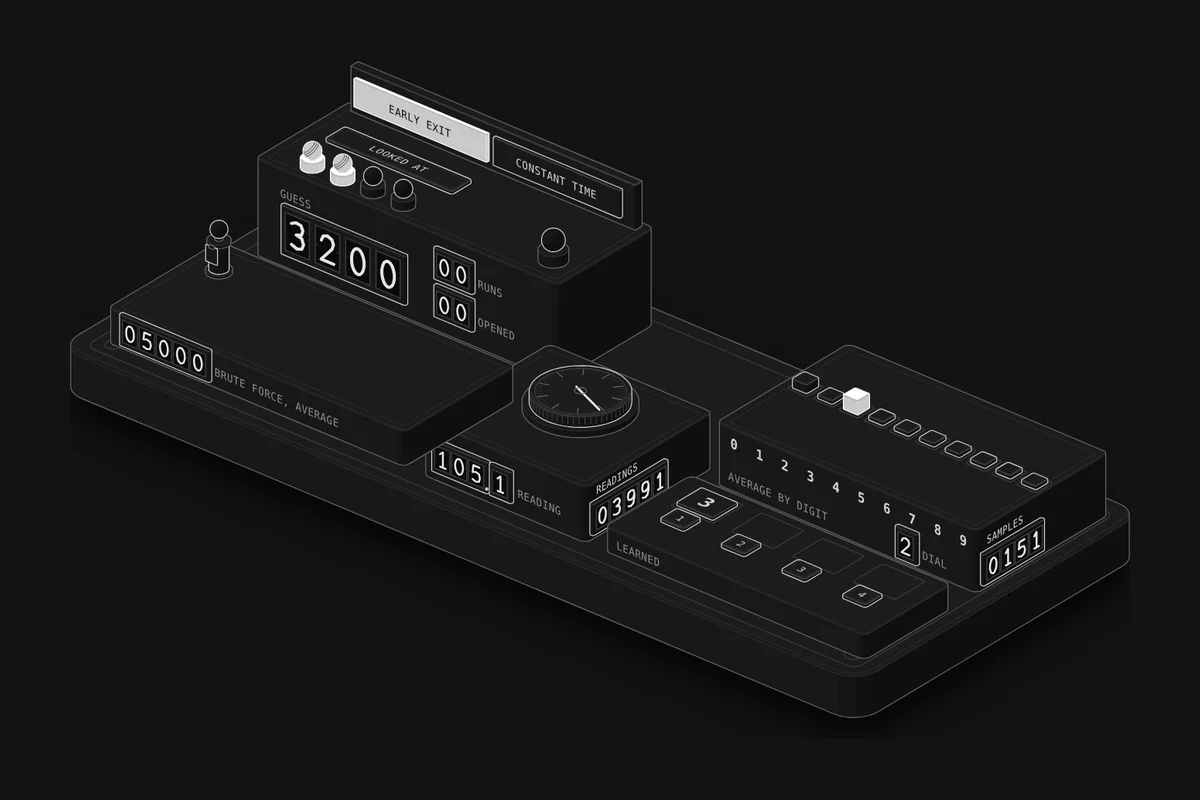
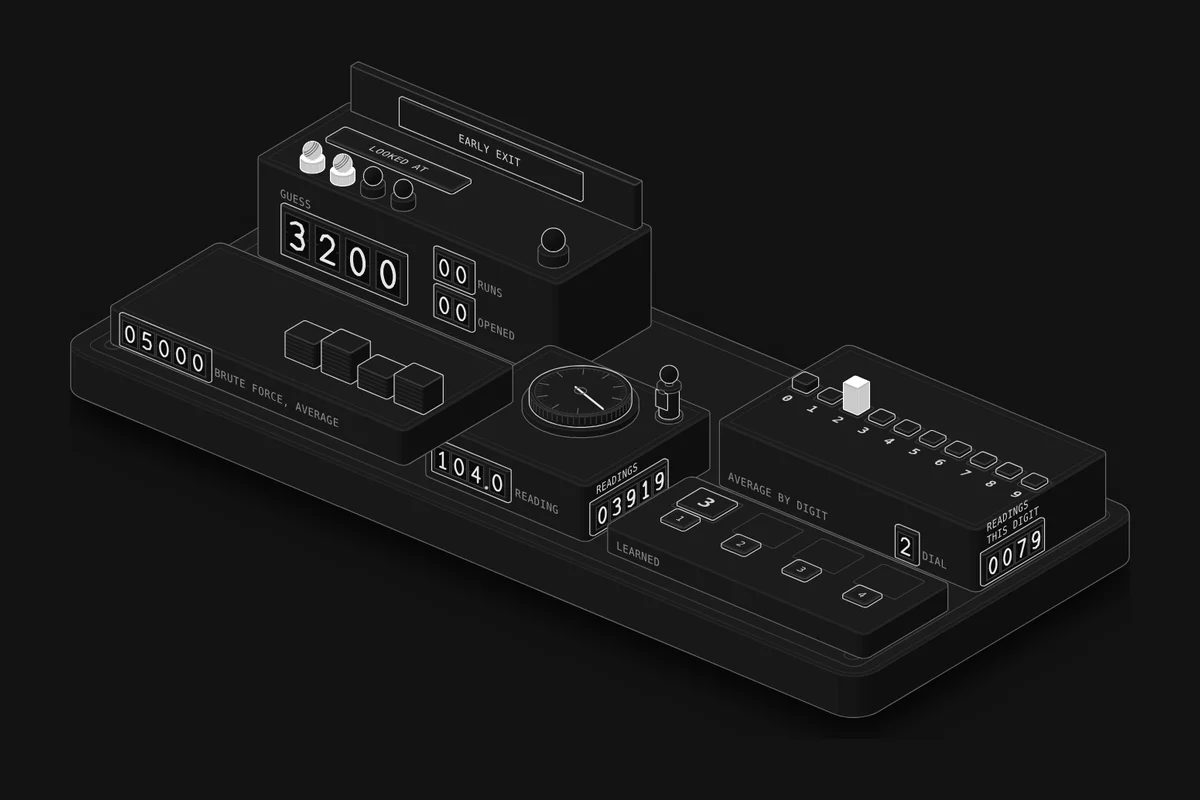
Lesson 81: fix review findings (bar labels on top, noise Watch at 1,280, FOUND in the length probe, listener at the stopwatch, reading counter, shorter caption)
Claude-Session: https://claude.ai/code/session_01S5z2gCvevbrGU3fXgpGDmP

diff --git a/src/lessons/timing/page.ts b/src/lessons/timing/page.ts
@@ -15,7 +15,7 @@ const top = (...xs) => Math.max(...xs) * 1.08 || 1;
 const ONE_IN = int(1 / CHANCE);
 // A constant-time result as a count of runs, so one lucky run reads as luck, not as a leak.
 const ofRuns = (rate) => int(rate * RUN_COUNT) + " of " + RUN_COUNT + " runs";
-const deRondas = (rate) => int(rate * RUN_COUNT) + " de " + RUN_COUNT + " rondas abiertas";
+const deEjecuciones = (rate) => int(rate * RUN_COUNT) + " de " + RUN_COUNT + " ejecuciones abiertas";
 const slash = (rate) => int(rate * RUN_COUNT) + "/" + RUN_COUNT;
 const S0 = DEFAULTS.samples;
 const rowOf = (noise, samples) => R.noise.find((g) => g.noise === noise).rows.find((r) => r.samples === samples).rate;
@@ -26,7 +26,7 @@ const RUNS = {
     const lg = (x) => Math.log10(x) / m;
     return {
       verdict: t("4 dials: brute force needs " + int(four.brute) + " tries on average, the listener took " + int(four.listen) + " readings and opened " + pct(four.rate) + " of runs. 8 dials: " + int(eight.brute) + " tries against " + int(eight.listen) + " readings, " + pct(eight.rate) + " opened.",
-        "4 diales: la fuerza bruta necesita " + int(four.brute) + " intentos en promedio; quien escucha tomó " + int(four.listen) + " lecturas y abrió el " + pct(four.rate) + " de las rondas. 8 diales: " + int(eight.brute) + " intentos contra " + int(eight.listen) + " lecturas, " + pct(eight.rate) + " abiertas."),
+        "4 diales: la fuerza bruta necesita " + int(four.brute) + " intentos en promedio; quien escucha tomó " + int(four.listen) + " lecturas y abrió el " + pct(four.rate) + " de las ejecuciones. 8 diales: " + int(eight.brute) + " intentos contra " + int(eight.listen) + " lecturas, " + pct(eight.rate) + " abiertas."),
       groups: [
         { title: t("4 dials (bars on a log scale)", "4 diales (barras en escala logarítmica)"), bars: [[t("Brute force, tries", "Fuerza bruta, intentos"), lg(four.brute), int(four.brute)], [t("Listener, readings", "Quien escucha, lecturas"), lg(four.listen), int(four.listen)]] },
         { title: t("8 dials (bars on a log scale)", "8 diales (barras en escala logarítmica)"), bars: [[t("Brute force, tries", "Fuerza bruta, intentos"), lg(eight.brute), int(eight.brute)], [t("Listener, readings", "Quien escucha, lecturas"), lg(eight.listen), int(eight.listen), true]] },
@@ -35,7 +35,7 @@ const RUNS = {
   },
   noise: () => ({
     verdict: t("Runs opened, by readings per digit: " + R.noise.map((g) => "noise " + g.noise + ": " + g.rows.map((r) => int(r.samples) + " → " + pct(r.rate)).join(", ")).join("; ") + ".",
-      "Rondas abiertas, por lecturas por dígito: " + R.noise.map((g) => "ruido " + g.noise + ": " + g.rows.map((r) => int(r.samples) + " → " + pct(r.rate)).join(", ")).join("; ") + "."),
+      "Ejecuciones abiertas, por lecturas por dígito: " + R.noise.map((g) => "ruido " + g.noise + ": " + g.rows.map((r) => int(r.samples) + " → " + pct(r.rate)).join(", ")).join("; ") + "."),
     groups: R.noise.map((g) => ({
       title: t("Noise " + g.noise + " (one dial = " + STEP + ")", "Ruido " + g.noise + " (un dial = " + STEP + ")"),
       bars: g.rows.map((r) => [t(int(r.samples) + " readings per digit", int(r.samples) + " lecturas por dígito"), r.rate, pct(r.rate), g.noise === 8 && r.samples === 1280]),
@@ -45,7 +45,7 @@ const RUNS = {
     const { early, cons, samples } = R.cons;
     return {
       verdict: t("With " + int(samples) + " readings per digit: early exit opened " + pct(early) + " of runs, constant time " + ofRuns(cons) + ". Blind luck opens 1 run in " + ONE_IN + ".",
-        "Con " + int(samples) + " lecturas por dígito: la salida temprana abrió el " + pct(early) + " de las rondas; con tiempo constante, " + deRondas(cons) + ". La suerte a ciegas abre 1 ronda de cada " + ONE_IN + "."),
+        "Con " + int(samples) + " lecturas por dígito: la salida temprana abrió el " + pct(early) + " de las ejecuciones; con tiempo constante, " + deEjecuciones(cons) + ". La suerte a ciegas abre 1 ejecución de cada " + ONE_IN + "."),
       bars: [[t("Early exit", "Salida temprana"), early, pct(early)], [t("Constant time", "Tiempo constante"), cons, slash(cons), true]],
     };
   },
@@ -53,7 +53,7 @@ const RUNS = {
     const { none, delayFew, delayMany, cons } = R.delay;
     return {
       verdict: t("Early exit with no delay, " + int(S0) + " readings per digit: " + pct(none) + " opened. With the 0–" + DELAY + " delay: " + pct(delayFew) + " at " + int(S0) + ", " + pct(delayMany) + " at " + int(MANY) + ". Constant time, no delay, " + int(MANY) + " readings: " + ofRuns(cons) + ", the luck of blind picks (1 in " + ONE_IN + ").",
-        "Salida temprana sin espera, " + int(S0) + " lecturas por dígito: " + pct(none) + " abiertas. Con la espera de 0–" + DELAY + ": " + pct(delayFew) + " con " + int(S0) + " y " + pct(delayMany) + " con " + int(MANY) + ". Tiempo constante, sin espera, " + int(MANY) + " lecturas: " + deRondas(cons) + ", la suerte de elegir a ciegas (1 de cada " + ONE_IN + ")."),
+        "Salida temprana sin espera, " + int(S0) + " lecturas por dígito: " + pct(none) + " abiertas. Con la espera de 0–" + DELAY + ": " + pct(delayFew) + " con " + int(S0) + " y " + pct(delayMany) + " con " + int(MANY) + ". Tiempo constante, sin espera, " + int(MANY) + " lecturas: " + deEjecuciones(cons) + ", la suerte de elegir a ciegas (1 de cada " + ONE_IN + ")."),
       bars: [[t("No delay, " + int(S0), "Sin espera, " + int(S0)), none, pct(none)], [t("Delay, " + int(S0), "Espera, " + int(S0)), delayFew, pct(delayFew)], [t("Delay, " + int(MANY), "Espera, " + int(MANY)), delayMany, pct(delayMany), true], [t("Constant time, " + int(MANY), "Tiempo constante, " + int(MANY)), cons, slash(cons)]],
     };
   },
@@ -61,7 +61,7 @@ const RUNS = {
     const { raw, fixed, chance, samples } = R.length;
     return {
       verdict: t("With " + samples + " readings per length, the listener found the secret's length in " + pct(raw) + " of runs comparing raw inputs, and in " + pct(fixed) + " comparing fixed-length digests, about the " + pct(chance) + " of a blind pick among " + LENGTHS.length + " lengths.",
-        "Con " + samples + " lecturas por longitud, quien escucha encontró la longitud del secreto en el " + pct(raw) + " de las rondas comparando las entradas tal cual, y en el " + pct(fixed) + " comparando resúmenes de longitud fija, cerca del " + pct(chance) + " de elegir a ciegas entre " + LENGTHS.length + " longitudes."),
+        "Con " + samples + " lecturas por longitud, quien escucha encontró la longitud del secreto en el " + pct(raw) + " de las ejecuciones comparando las entradas tal cual, y en el " + pct(fixed) + " comparando resúmenes de longitud fija, cerca del " + pct(chance) + " de elegir a ciegas entre " + LENGTHS.length + " longitudes."),
       bars: [[t("Raw inputs", "Entradas tal cual"), raw, pct(raw), true], [t("Fixed-length digests", "Resúmenes de longitud fija"), fixed, pct(fixed)], [t("Blind pick", "Elegir a ciegas"), chance, pct(chance)]],
     };
   },
@@ -86,7 +86,7 @@ const EXPERIMENTS = [
       "An early-exit comparison stops at the first wrong dial, so a guess whose first dials are right takes one step longer. That answers one dial at a time: the listener times each of ten digits, keeps the slowest, and moves on. Its work adds up per dial, " + int(B.four.listen) + " readings at 4 dials and " + int(B.eight.listen) + " at 8, while brute force multiplies by ten per dial: " + int(B.four.brute) + " tries on average at 4, " + int(B.eight.brute) + " at 8. At 4 dials, guessing blind is actually cheaper; at 8, listening is thousands of times cheaper. The leak turns about 10ⁿ work into about n × 10 × samples, so it matters more as secrets get longer, not less. (The last dial leaves no trace, since right or wrong the checker looks at all of them, so it is tried by hand: ten tries.)",
       "Una comparación con salida temprana se detiene en el primer dial equivocado, así que un intento cuyos primeros diales están bien tarda un paso más. Eso responde un dial a la vez: quien escucha mide cada uno de los diez dígitos, se queda con el más lento y sigue. Su trabajo se suma por dial, " + int(B.four.listen) + " lecturas con 4 diales y " + int(B.eight.listen) + " con 8, mientras la fuerza bruta se multiplica por diez por dial: " + int(B.four.brute) + " intentos en promedio con 4, " + int(B.eight.brute) + " con 8. Con 4 diales, adivinar a ciegas en realidad sale más barato; con 8, escuchar es miles de veces más barato. La fuga convierte un trabajo de unos 10ⁿ en unos n × 10 × muestras, así que importa más cuanto más largo es el secreto, no menos. (El último dial no deja rastro, porque bien o mal el verificador los revisa todos, así que se prueba a mano: diez intentos.)",
     ),
-    watch: { compare: "early", noise: 4, samples: 320, delay: 0, probe: "dials", input: "raw" },
+    watch: { compare: "early", noise: 4, samples: 320, delay: 0, probe: "dials", input: "raw", speed: 64, warm: 2600 },
   },
   {
     id: "noise",
@@ -104,7 +104,7 @@ const EXPERIMENTS = [
       "The average of n readings has a spread of noise ÷ √n, so to see the same one-unit difference with twice the noise you need four times the readings: noise 2 with 80 readings opened " + pct(rowOf(2, 80)) + ", noise 4 with 320 " + pct(rowOf(4, 320)) + ", noise 8 with 1,280 " + pct(rowOf(8, 1280)) + ". Even noise eight times the signal gives way. That is what people get wrong about network jitter: it doesn't hide a small difference, it only raises the number of samples, and samples are cheap to someone who can send requests. It is the same averaging lesson 44, Percentiles, uses on latency, turned around.",
       "El promedio de n lecturas tiene una dispersión de ruido ÷ √n, así que para ver la misma diferencia de una unidad con el doble de ruido hacen falta cuatro veces más lecturas: ruido 2 con 80 lecturas abrió el " + pct(rowOf(2, 80)) + ", ruido 4 con 320 el " + pct(rowOf(4, 320)) + " y ruido 8 con 1,280 el " + pct(rowOf(8, 1280)) + ". Incluso un ruido ocho veces mayor que la señal termina cediendo. En eso se equivoca la gente con la variación aleatoria (jitter) de la red: no esconde una diferencia pequeña, solo sube la cantidad de muestras, y las muestras son baratas para quien puede enviar solicitudes. Es el mismo promedio que usa la lección 44, Percentiles, con la latencia, visto al revés.",
     ),
-    watch: { compare: "early", noise: 8, samples: 320, delay: 0, probe: "dials", input: "raw" },
+    watch: { compare: "early", noise: 8, samples: 1280, delay: 0, probe: "dials", input: "raw", speed: 64, warm: 9600 },
   },
   {
     id: "cons",
@@ -120,9 +120,9 @@ const EXPERIMENTS = [
     answer: 2,
     why: t(
       "Now every guess costs the same: the time no longer depends on how many dials match. Averaging can only find a difference that exists, so the bars settle level and each pick is a blind guess: " + ofRuns(C.cons) + " opened, against " + pct(C.early) + " with early exit (blind luck is 1 run in " + ONE_IN + " here). In code, compare secrets with the library's constant-time function: crypto.timingSafeEqual in Node.js, hmac.compare_digest in Python, subtle.ConstantTimeCompare in Go. They look at every byte and combine the differences without branching on them. A plain == on strings or byte arrays usually returns at the first difference, and a hand-written loop can be turned back into an early exit by the compiler, so use the library.",
-      "Ahora cada intento cuesta lo mismo: el tiempo ya no depende de cuántos diales coinciden. Promediar solo encuentra una diferencia que existe, así que las barras quedan parejas y cada elección es a ciegas: " + deRondas(C.cons) + ", contra el " + pct(C.early) + " con salida temprana (la suerte a ciegas abre 1 ronda de cada " + ONE_IN + " aquí). En el código, compara secretos con la función de tiempo constante de la biblioteca: crypto.timingSafeEqual en Node.js, hmac.compare_digest en Python, subtle.ConstantTimeCompare en Go. Revisan cada byte y combinan las diferencias sin ramificar según ellas. Un == común sobre cadenas o arreglos de bytes suele volver en la primera diferencia, y un bucle escrito a mano puede volver a convertirse en salida temprana por obra del compilador, así que usa la biblioteca.",
+      "Ahora cada intento cuesta lo mismo: el tiempo ya no depende de cuántos diales coinciden. Promediar solo encuentra una diferencia que existe, así que las barras quedan parejas y cada elección es a ciegas: " + deEjecuciones(C.cons) + ", contra el " + pct(C.early) + " con salida temprana (la suerte a ciegas abre 1 ejecución de cada " + ONE_IN + " aquí). En el código, compara secretos con la función de tiempo constante de la biblioteca: crypto.timingSafeEqual en Node.js, hmac.compare_digest en Python, subtle.ConstantTimeCompare en Go. Revisan cada byte y combinan las diferencias sin ramificar según ellas. Un == común sobre cadenas o arreglos de bytes suele volver en la primera diferencia, y un bucle escrito a mano puede volver a convertirse en salida temprana por obra del compilador, así que usa la biblioteca.",
     ),
-    watch: { compare: "const", noise: 4, samples: 320, delay: 0, probe: "dials", input: "raw" },
+    watch: { compare: "const", noise: 4, samples: 320, delay: 0, probe: "dials", input: "raw", speed: 64, warm: 2600 },
   },
   {
     id: "delay",
@@ -138,9 +138,9 @@ const EXPERIMENTS = [
     answer: 1,
     why: t(
       "A random delay is just more noise: every guess gets the same delay on average, so the difference between a right and a wrong digit survives in the means. It only raises the readings needed: " + pct(D.none) + " opened with no delay, " + pct(D.delayFew) + " with it at " + int(S0) + " readings, " + pct(D.delayMany) + " at " + int(MANY) + ". Meanwhile every honest request got slower. The fix is to remove the difference, not to blur it: with constant time, " + ofRuns(D.cons) + " opened at " + int(MANY) + " readings, the luck of blind picks. Limiting how many checks one client can make (lesson 05, Rate limiting) is a good second layer, because it caps the samples anyone gets.",
-      "Una espera al azar es solo más ruido: cada intento recibe la misma espera en promedio, así que la diferencia entre un dígito correcto y uno equivocado sobrevive en los promedios. Solo sube las lecturas necesarias: se abrió el " + pct(D.none) + " sin espera, el " + pct(D.delayFew) + " con ella y " + int(S0) + " lecturas, y el " + pct(D.delayMany) + " con " + int(MANY) + ". Mientras tanto, cada solicitud legítima se volvió más lenta. La solución es quitar la diferencia, no difuminarla: con tiempo constante, " + deRondas(D.cons) + " con " + int(MANY) + " lecturas, la suerte de elegir a ciegas. Limitar cuántas comprobaciones puede hacer un cliente (lección 05, Limitación de tasa) es una buena segunda capa, porque pone un tope a las muestras que alguien consigue.",
+      "Una espera al azar es solo más ruido: cada intento recibe la misma espera en promedio, así que la diferencia entre un dígito correcto y uno equivocado sobrevive en los promedios. Solo sube las lecturas necesarias: se abrió el " + pct(D.none) + " sin espera, el " + pct(D.delayFew) + " con ella y " + int(S0) + " lecturas, y el " + pct(D.delayMany) + " con " + int(MANY) + ". Mientras tanto, cada solicitud legítima se volvió más lenta. La solución es quitar la diferencia, no difuminarla: con tiempo constante, " + deEjecuciones(D.cons) + " con " + int(MANY) + " lecturas, la suerte de elegir a ciegas. Limitar cuántas comprobaciones puede hacer un cliente (lección 05, Limitación de tasa) es una buena segunda capa, porque pone un tope a las muestras que alguien consigue.",
     ),
-    watch: { compare: "early", noise: 4, samples: 2560, delay: 40, probe: "dials", input: "raw", speed: 64 },
+    watch: { compare: "early", noise: 4, samples: 2560, delay: 40, probe: "dials", input: "raw", speed: 64, warm: 21000 },
   },
   {
     id: "length",
@@ -156,7 +156,7 @@ const EXPERIMENTS = [
     answer: 1,
     why: t(
       "Constant-time functions are constant time only for inputs of the same length. A guess of the wrong length is turned away before any dial is compared, so it comes back sooner, and the right length stands out: found in " + pct(N.raw) + " of runs. The library functions handle this differently: Node.js's timingSafeEqual throws when the lengths differ, Go's ConstantTimeCompare returns 0 at once, and Python's documentation says compare_digest may reveal the lengths, though not the contents. Comparing an HMAC of each side (or a hash, for a token you store) makes both inputs the same fixed length, and the digest's bytes no longer follow the guess's: " + pct(N.fixed) + ", about the " + pct(N.chance) + " of a blind pick.",
-      "Las funciones de tiempo constante lo son solo para entradas de la misma longitud. Un intento de longitud equivocada se rechaza antes de comparar ningún dial, así que vuelve antes, y la longitud correcta resalta: se encontró en el " + pct(N.raw) + " de las rondas. Las funciones de biblioteca lo manejan distinto: timingSafeEqual de Node.js lanza un error si las longitudes difieren, ConstantTimeCompare de Go devuelve 0 de inmediato, y la documentación de Python dice que compare_digest puede revelar las longitudes, aunque no el contenido. Comparar un HMAC de cada lado (o un hash, para un token que guardas) hace que las dos entradas tengan la misma longitud fija, y los bytes del resumen ya no siguen a los del intento: " + pct(N.fixed) + ", cerca del " + pct(N.chance) + " de elegir a ciegas.",
+      "Las funciones de tiempo constante lo son solo para entradas de la misma longitud. Un intento de longitud equivocada se rechaza antes de comparar ningún dial, así que vuelve antes, y la longitud correcta resalta: se encontró en el " + pct(N.raw) + " de las ejecuciones. Las funciones de biblioteca lo manejan distinto: timingSafeEqual de Node.js lanza un error si las longitudes difieren, ConstantTimeCompare de Go devuelve 0 de inmediato, y la documentación de Python dice que compare_digest puede revelar las longitudes, aunque no el contenido. Comparar un HMAC de cada lado (o un hash, para un token que guardas) hace que las dos entradas tengan la misma longitud fija, y los bytes del resumen ya no siguen a los del intento: " + pct(N.fixed) + ", cerca del " + pct(N.chance) + " de elegir a ciegas.",
     ),
     watch: { compare: "const", noise: 4, samples: 20, delay: 0, probe: "length", input: "raw" },
   },
@@ -194,13 +194,13 @@ export default defineLesson({
     plate: {
       title: t("Combination checker", "Verificador de combinaciones"),
       keys: [
-        { mark: "lit", label: t("The comparison in use; the dials the latest check looked at; the column being timed; the open lamp", "La comparación en uso; los diales que revisó la última comprobación; la columna que se está midiendo; la lámpara de abierta") },
+        { mark: "lit", label: t("The check in play: the dials the latest check looked at, the column being timed, and the lamp when the lock opens", "La comprobación en juego: los diales que revisó la última comprobación, la columna que se está midiendo y la lámpara cuando la cerradura abre") },
         { mark: "raised", label: t("Bars: the average reading per digit so far; cards: the dials the listener has settled on", "Barras: la lectura promedio de cada dígito hasta ahora; tarjetas: los diales que ya fijó quien escucha") },
         { mark: "flat", label: t("The checker, the stopwatch and the tally board", "El verificador, el cronómetro y el tablero de conteo") },
       ],
       caption: t(
-        "A check costs about " + BASE + " units plus " + STEP + " for each dial it looks at; every reading adds noise. The units are illustrative and round: one dial stands for the few nanoseconds one more byte of comparison takes, the noise for jitter many times larger. Early exit looks at dials until the first wrong one; constant time always looks at all four. For each dial, the listener times every digit (the rest of the guess is padding), keeps the slowest average and moves on; the last dial leaves no timing trace, so it is tried by hand until the checker opens. Bars rise one step for one unit above a wrong guess's cost. In the length probe, the bars are guess lengths 2 to 7 instead. Counters: the guess, runs and how many opened (OPENED), the last reading and how many were taken (READINGS), the dial being learned and the samples of the current digit, and the tries brute force needs on average.",
-        "Una comprobación cuesta unas " + BASE + " unidades más " + STEP + " por cada dial que revisa; cada lectura suma ruido. Las unidades son ilustrativas y redondas: un dial representa los pocos nanosegundos que tarda comparar un byte más, y el ruido una variación muchas veces mayor. La salida temprana revisa diales hasta el primero equivocado; el tiempo constante siempre revisa los cuatro. Para cada dial, quien escucha mide todos los dígitos (el resto del intento es relleno), se queda con el promedio más lento y sigue; el último dial no deja rastro de tiempo, así que se prueba a mano hasta que el verificador abre. Las barras suben un escalón por cada unidad sobre el costo de un intento equivocado. En la prueba de longitud, las barras son longitudes de intento de 2 a 7. Contadores: el intento, las rondas y cuántas abrieron (ABIERTAS), la última lectura y cuántas se tomaron (LECTURAS), el dial que se está aprendiendo y las muestras del dígito actual, y los intentos que la fuerza bruta necesita en promedio.",
+        "A check costs about " + BASE + " units plus " + STEP + " for each dial it looks at, and every reading adds noise; one dial stands for the few nanoseconds one more byte takes. Early exit looks at dials until the first wrong one; constant time always looks at all four. For each dial the listener times every digit, keeps the slowest average and lays its card on the rail; the last dial leaves no timing trace, so it is tried by hand. A bar rises one step for each unit above a wrong guess's cost; in the length probe the bars are guess lengths 2 to 7. Counters: RUNS and how many OPENED (FOUND the length), the last READING and READINGS taken, the DIAL being learned with the readings of the column being timed, and the tries brute force needs on average.",
+        "Una comprobación cuesta unas " + BASE + " unidades más " + STEP + " por cada dial que revisa, y cada lectura suma ruido; un dial representa los pocos nanosegundos que tarda un byte más. La salida temprana revisa diales hasta el primero equivocado; el tiempo constante siempre revisa los cuatro. Para cada dial, quien escucha mide todos los dígitos, se queda con el promedio más lento y pone su tarjeta en el riel; el último dial no deja rastro de tiempo, así que se prueba a mano. Una barra sube un escalón por cada unidad sobre el costo de un intento equivocado; en la prueba de longitud las barras son longitudes de intento de 2 a 7. Contadores: EJECUCIONES y cuántas quedaron ABIERTAS (HALLADAS, la longitud), la última LECTURA y las LECTURAS tomadas, el DIAL que se aprende con las lecturas de la columna que se mide, y los intentos promedio de la fuerza bruta.",
       ),
       stage: { "data-timing": "" },
       label: t("Timing attack simulation. Space pauses or resumes.", "Simulación de un ataque de tiempo. Espacio pausa o reanuda."),
@@ -223,8 +223,8 @@ export default defineLesson({
       { speed: true, options: [[1, "1×"], [4, "4×"], [16, "16×"], [64, "64×"]], value: 16 },
       { actions: [["secret", t("New secret", "Nuevo secreto"), { primary: true }], ["reset", t("Start over", "Empezar de nuevo")], ["pause", t("Pause", "Pausa")]], label: t("Do something", "Haz algo") },
     ],
-    note: t("Changing a setting starts a new run with a new secret. At 1× the stopwatch takes 30 readings a second. A run ends when the lock opens or the last dial runs out of digits, and the next one starts on its own.",
-      "Cambiar un ajuste empieza una ronda nueva con un secreto nuevo. A 1× el cronómetro toma 30 lecturas por segundo. Una ronda termina cuando la cerradura abre o el último dial se queda sin dígitos, y la siguiente empieza sola."),
+    note: t("Changing a setting starts a new run with a new secret. At 1× the stopwatch takes 30 readings a second. A run ends when the lock opens or the last dial runs out of digits, and the next one starts on its own. Watch it in the figure takes the first readings of dial 1 at once and speeds up.",
+      "Cambiar un ajuste empieza una ejecución nueva con un secreto nuevo. A 1× el cronómetro toma 30 lecturas por segundo. Una ejecución termina cuando la cerradura abre o el último dial se queda sin dígitos, y la siguiente empieza sola. Míralo en la figura toma de una vez las primeras lecturas del dial 1 y acelera."),
   },
   predict: { intro: t("Each experiment changes one thing. Choose what you expect <em>before</em> running it. Results come from the same checker as the machine, averaged over 200 seeded runs, each with its own secret.",
     "Cada experimento cambia una sola cosa. Elige lo que esperas <em>antes</em> de ejecutarlo. Los resultados salen del mismo verificador que la máquina, promediados sobre 200 ejecuciones con semilla fija, cada una con su propio secreto."), experiments: withResults(EXPERIMENTS, RUNS) },

diff --git a/src/lessons/timing/figure.ts b/src/lessons/timing/figure.ts
@@ -1,14 +1,16 @@
 // @ts-nocheck: figure code in the style of the other lessons; drawing shorthands come from src/lib/draw.
 // A combination checker and a stopwatch booth: the lesson's model of a timing leak and its fix.
 //   Back left: the CHECKER, a cabinet with the guess on four digit wheels. Its comparison either stops at the first
-//         wrong dial (EARLY EXIT) or always looks at all four (CONSTANT TIME); the lit plate is the one in use, and a
-//         lamp over each wheel lights for every dial the latest check looked at. Counters: RUNS and OPENED.
-//   Centre: the STOPWATCH on a pedestal: its needle sweeps for each reading; READING shows the last one (one decimal)
-//         and READINGS how many have been taken.
-//   Back right: the TALLY board: one bar per digit (or per guessed length), the mean reading so far; the column being
-//         timed is lit. DIAL on its front face, SAMPLES on its right face.
-//   Front: the brute-force desk (how many tries guessing blind would take on average) and the LEARNED rail, with a
-//         card for each dial the listener has settled on.
+//         wrong dial (EARLY EXIT) or always looks at all four (CONSTANT TIME): the plate on top names the one in use,
+//         and a lamp over each wheel lights for every dial the latest check looked at. Counters: RUNS and OPENED
+//         (FOUND in the length probe).
+//   Centre: the STOPWATCH on a pedestal, the listener standing beside it: its needle sweeps for each reading;
+//         READING shows the last one (one decimal) and READINGS how many have been taken.
+//   Back right: the TALLY board: one bar per digit (or per guessed length), the mean reading so far, its digit on the
+//         top in front of it; the column being timed is lit. DIAL on its front face, the readings of the column being
+//         timed on its right face.
+//   Front: the brute-force desk (how many tries guessing blind would take on average, with a pile of guess slips)
+//         and the LEARNED rail, with a card for each dial the listener has settled on.
 // Nothing moves across a counter or a caption: the bars rise behind the tally board's front face, the needle turns on
 // top of the stopwatch, lamps and cards stay in place. Built with the Anatomy kit (MIT) and the shared parts.
 import * as k from "../../../workbench/kit.mjs";
@@ -39,7 +41,7 @@ const WHEEL = { x0: -114, w: 8, h: 11, gap: 2, z: 5 };
 export const WHEEL_CX = Array.from({ length: DIALS }, (_, i) => WHEEL.x0 + i * (WHEEL.w + WHEEL.gap) + WHEEL.w / 2);
 const PANEL = { x: CK.x + 3, y: CK.y + 1, w: CK.w - 6, d: 3, r: 0.4 };
 const PANEL_H = 13;
-const MODE = { early: { x: PANEL.x + 2, w: 44 }, const: { x: PANEL.x + 48, w: 42 } };
+const MODE = { x: PANEL.x + 17, w: PANEL.w - 34 };
 
 // ---------- the stopwatch ----------
 const PED = { x: -20, y: -32, w: 54, d: 50, r: 2 };
@@ -86,21 +88,19 @@ function checker() {
   // runs and opened, on the front to the right of the guess
   const cx = -64;
   out.push(counter({ x: cx, y: CK_FRONT, z: 16, count: 2, name: "runs" }));
-  out.push(text(cx + 2 * CW + 2.4, CK_FRONT, 17.6, t("RUNS", "RONDAS")));
+  out.push(text(cx + 2 * CW + 2.4, CK_FRONT, 17.6, t("RUNS", "EJECUCIONES")));
   out.push(counter({ x: cx, y: CK_FRONT, z: 5, count: 2, name: "opened" }));
-  out.push(text(cx + 2 * CW + 2.4, CK_FRONT, 6.6, t("OPENED", "ABIERTAS")));
+  out.push(`<g data-opencap="dials">${text(cx + 2 * CW + 2.4, CK_FRONT, 6.6, t("OPENED", "ABIERTAS"))}</g>`);
+  out.push(`<g data-opencap="length" style="display:none">${text(cx + 2 * CW + 2.4, CK_FRONT, 6.6, t("FOUND", "HALLADAS"))}</g>`);
   // a lamp over each wheel, lit for every dial the latest check looked at
   out.push(plaque(P, { x: WHEEL_CX[0] - 6, y: CK_FRONT - 26, z: CK_H, w: WHEEL_CX[DIALS - 1] - WHEEL_CX[0] + 12, d: 8, text: t("LOOKED AT", "REVISADOS"), size: LABEL }));
   WHEEL_CX.forEach((x, i) => out.push(`<g data-look="${i}">${lamp(P, [x, CK_FRONT - 6, CK_H], { r: 2.4 })}</g>`));
-  // the mode plates on a panel at the back of the top
+  // the plate on a panel at the back of the top: the comparison in use, by name
   out.push(S(k.slabOf(PANEL, CK_H, PANEL_H, P, 2, 0.3), { tone: "mid", crease: "lo" }));
   const face = PANEL.y + PANEL.d;
-  const plateOf = (name, words) => {
-    const m = MODE[name], plan = { x: m.x, y: face, w: m.w, d: 1.2, r: 0.3 };
-    return `<g class="wb-lit-group" data-mode="${name}">${S(k.slabOf(plan, CK_H + 2.5, 8, P, 2, 0.2), { tone: "hi", crease: "lo" })}`
-      + faceText(P, [m.x + m.w / 2, face + 1.2, CK_H + 5.2], words, { size: LABEL, tone: "hi", anchor: "middle" }) + `</g>`;
-  };
-  out.push(plateOf("early", t("EARLY EXIT", "SALIDA TEMPRANA")), plateOf("const", t("CONSTANT TIME", "TIEMPO CONSTANTE")));
+  out.push(S(k.slabOf({ x: MODE.x, y: face, w: MODE.w, d: 1.2, r: 0.3 }, CK_H + 2.5, 8, P, 2, 0.2), { tone: "hi", crease: "lo" }));
+  const modeText = (name, words, on) => `<g data-mode="${name}"${on ? "" : ' style="display:none"'}>${faceText(P, [MODE.x + MODE.w / 2, face + 1.2, CK_H + 5.2], words, { size: LABEL, tone: "hi", anchor: "middle" })}</g>`;
+  out.push(modeText("early", t("EARLY EXIT", "SALIDA TEMPRANA"), true), modeText("const", t("CONSTANT TIME", "TIEMPO CONSTANTE"), false));
   // the open lamp on the right of the top
   out.push(`<g data-open>${lamp(P, [CK.x + CK.w - 9, CK_FRONT - 9, CK_H], { r: 3 })}</g>`);
   return out.join("");
@@ -110,16 +110,19 @@ function stopwatch() {
   const out = [S(k.slabOf(PED, 0, PED_H, P, 3, 0.6), { tone: "mid" })];
   out.push(L(k.planOutline(k.insetPlan(PED, 2.4), PED_H, P), { tone: "faint" }));
   out.push(dial(P, { x: WATCH.x, y: WATCH.y, z: PED_H, r: WATCH.r, h: 5, ticks: 50, every: 5, name: "watch", value: 0 }));
-  // the last reading: three wheels, a decimal point, one wheel
-  const x0 = PED.x + 4;
-  out.push(counter({ x: x0, y: PED_FRONT, z: 3.4, count: 3, name: "readI" }));
-  out.push(k.dotsSvg([k.iso([x0 + 3 * CW + 0.6, PED_FRONT + 0.2, 3.8], P)], { size: 1.1, tone: "hi" }));
-  out.push(counter({ x: x0 + 3 * CW + 2.2, y: PED_FRONT, z: 3.4, count: 1, name: "readF" }));
-  out.push(text(x0 + 4 * CW + 5, PED_FRONT, 5, t("READING", "LECTURA")));
+  // the last reading: three wheels, a decimal point and one wheel, in one housing
+  const x0 = PED.x + 4, z0 = 3.4, span3 = 3 * 5 + 2 * 0.6, tenthX = x0 + span3 + 2;
+  out.push(S(k.slabOf({ x: x0 - 1.2, y: PED_FRONT - 1.4, w: tenthX + 5 - x0 + 2.4, d: 1.4, r: 0.5 }, z0 - 1.2, 6.6 + 2.4, P, 2), { tone: "hi", crease: "lo" }));
+  out.push(counter({ x: x0, y: PED_FRONT, z: z0, count: 3, housing: false, name: "readI" }));
+  out.push(k.dotsSvg([k.iso([x0 + span3 + 1, PED_FRONT + 0.1, z0 + 0.6], P)], { size: 1.1, tone: "hi" }));
+  out.push(counter({ x: tenthX, y: PED_FRONT, z: z0, count: 1, housing: false, name: "readF" }));
+  out.push(text(tenthX + 5 + 3.4, PED_FRONT, 5, t("READING", "LECTURA")));
   // how many readings so far, on the right face
   const side = PED.x + PED.w;
   out.push(counter({ x: side, y: PED_FRONT - 4, z: 2, count: 5, face: "x", name: "readings" }));
   out.push(faceText(P, [side, PED_FRONT - 4, 12.4], t("READINGS", "LECTURAS"), { face: "x", size: LABEL, tone: "hi" }));
+  // the listener, with a clipboard, beside the stopwatch it reads
+  out.push(person(P, [PED.x + PED.w - 7, PED.y + 9, PED_H], { scale: 0.62, holding: "clipboard" }));
   return out.join("");
 }
 
@@ -133,17 +136,19 @@ function tally() {
   // the bars, far ones first
   const order = BAR_X.map((_, i) => i).sort((a, b) => k.depthOf([BAR_X[a], BAR.y, 0], P) - k.depthOf([BAR_X[b], BAR.y, 0], P));
   out.push(`<g data-bars>${order.map((i) => `<g class="wb-lit-group" data-bar="${i}">${S(barPaths(P, BAR_X[i], 4, k.slabOf), { tone: "hi", crease: "lo" })}</g>`).join("")}</g>`);
-  // column labels under each bar, and the caption, on the front face
-  BAR_X.forEach((x, i) => out.push(faceText(P, [x, TB_FRONT, 12.4], String(i), { size: 4, tone: "hi", anchor: "middle", attr: `data-col="${i}"` })));
+  // each column's label on the top, just in front of its bar; the caption on the front face
+  BAR_X.forEach((x, i) => out.push(faceText(P, [x, BAR.y + BAR.d / 2 + 6, TB_H], String(i), { face: "top", size: 4, tone: "hi", anchor: "middle", attr: `data-col="${i}"` })));
   out.push(`<g data-cap="dials">${text(TB.x + 4, TB_FRONT, 2.8, t("AVERAGE BY DIGIT", "PROMEDIO POR DÍGITO"))}</g>`);
   out.push(`<g data-cap="length" style="display:none">${text(TB.x + 4, TB_FRONT, 2.8, t("AVERAGE BY LENGTH", "PROMEDIO POR LONGITUD"))}</g>`);
   // dial and samples on the right face
   const side = TB.x + TB.w;
   const dx = TB.x + TB.w - 26;
-  out.push(counter({ x: dx, y: TB_FRONT, z: 1.8, count: 1, name: "dial" }));
-  out.push(text(dx + CW + 2.4, TB_FRONT, 3.4, t("DIAL", "DIAL")));
+  out.push(`<g data-dialbox>${counter({ x: dx, y: TB_FRONT, z: 1.8, count: 1, name: "dial" })}${text(dx + CW + 2.4, TB_FRONT, 3.4, t("DIAL", "DIAL"))}</g>`);
+  // the readings taken so far of the column being timed, out of the panel's "readings per digit"
   out.push(counter({ x: side, y: TB_FRONT - 4, z: 2, count: 4, face: "x", name: "samples" }));
-  out.push(faceText(P, [side, TB_FRONT - 4, 12.6], t("SAMPLES", "MUESTRAS"), { face: "x", size: LABEL, tone: "hi" }));
+  const sideCap = (z, words) => faceText(P, [side, TB_FRONT - 4, z], words, { face: "x", size: LABEL, tone: "hi" });
+  out.push(sideCap(16.2, t("READINGS", "LECTURAS")));
+  out.push(`<g data-samplecap="dials">${sideCap(12.4, t("THIS DIGIT", "ESTE DÍGITO"))}</g><g data-samplecap="length" style="display:none">${sideCap(12.4, t("THIS LENGTH", "ESTA LONGITUD"))}</g>`);
   return out.join("");
 }
 
@@ -152,8 +157,16 @@ function desk() {
   out.push(L(k.planOutline(k.insetPlan(DESK, 2.4), DESK_H, P), { tone: "faint" }));
   out.push(counter({ x: DESK.x + 5, y: DESK_FRONT, z: 1.8, count: 5, name: "brute", value: BRUTE / 2 }));
   out.push(text(DESK.x + 5 + 5 * CW + 2.4, DESK_FRONT, 3.4, t("BRUTE FORCE, AVERAGE", "FUERZA BRUTA, PROMEDIO")));
-  // the listener stands at the left end of the desk, clear of the checker's wheels
-  out.push(person(P, [DESK.x + 10, DESK.y + 12, DESK_H], { scale: 0.62, holding: "clipboard" }));
+  // the pile of guess slips that guessing blind works through: low stacks at the front right of the desk, clear of
+  // the checker's wheels behind it
+  const slip = { w: 10, d: 8 };
+  const stacks = [[DESK.x + 50, 7], [DESK.x + 62, 9], [DESK.x + 74, 6], [DESK.x + 86, 8]];
+  for (const [x, h] of stacks) {
+    const plan = { x, y: DESK.y + 26, w: slip.w, d: slip.d, r: 0.5 };
+    const lines = [];
+    for (let z = DESK_H + 1.2; z < DESK_H + h - 0.4; z += 1.2) lines.push(k.faceRectY(P, plan.x + 0.4, plan.x + plan.w - 0.4, plan.y + plan.d, z, z + 0.01));
+    out.push(S(k.slabOf(plan, DESK_H, h, P, 2, 0.3), { tone: "hi", crease: "lo", inner: L(lines.join(""), { tone: "faint" }) }));
+  }
   return out.join("");
 }
 
@@ -182,8 +195,8 @@ export function buildFigure() {
     width: WIDTH,
     height: HEIGHT,
     label: t(
-      "A combination checker and a stopwatch booth on a base plate. At the back left, the checker: a cabinet with the current guess on four digit wheels, a lamp over each wheel that lights for every dial the latest check looked at, and two plates, EARLY EXIT and CONSTANT TIME, of which the lit one is the comparison in use; counters show the runs and how many opened the lock. In the centre, a stopwatch on a pedestal times every check; counters show the last reading, with one decimal, and how many readings have been taken. At the back right, a tally board has one bar per digit, the average reading for that digit so far; the column being timed is lit, and counters show the dial being learned and the samples taken. At the front, a desk shows how many tries guessing blind would take on average, with the listener standing at it, and a rail holds a card for each dial the listener has settled on.",
-      "Un verificador de combinaciones y una cabina con cronómetro sobre una placa base. Atrás a la izquierda, el verificador: un gabinete con el intento actual en cuatro ruedas de dígitos, una lámpara sobre cada rueda que se enciende por cada dial que revisó la última comprobación, y dos placas, SALIDA TEMPRANA y TIEMPO CONSTANTE, de las que la encendida es la comparación en uso; unos contadores muestran las rondas y cuántas abrieron la cerradura. En el centro, un cronómetro sobre un pedestal mide cada comprobación; unos contadores muestran la última lectura, con un decimal, y cuántas lecturas se tomaron. Atrás a la derecha, un tablero de conteo tiene una barra por dígito, la lectura promedio de ese dígito hasta ahora; la columna que se está midiendo está encendida, y unos contadores muestran el dial que se está aprendiendo y las muestras tomadas. Adelante, un escritorio muestra cuántos intentos haría falta en promedio adivinando a ciegas, con quien escucha parado ahí, y un riel tiene una tarjeta por cada dial que ya fijó.",
+      "A combination checker and a stopwatch booth on a base plate. At the back left, the checker: a cabinet with the current guess on four digit wheels, a lamp over each wheel that lights for every dial the latest check looked at, and a plate on top naming the comparison in use, EARLY EXIT or CONSTANT TIME; counters on its front show the runs and how many opened the lock. In the centre, a stopwatch on a pedestal times every check, with the listener standing beside it holding a clipboard; counters show the last reading, with one decimal, and how many readings have been taken. At the back right, a tally board has one bar per digit, the average reading for that digit so far, with the digit on the top in front of its bar; the column being timed is lit, and counters show the dial being learned and the readings taken of the column being timed. At the front left, a desk with piles of guess slips shows how many tries guessing blind would take on average; at the front right, a rail holds a card for each dial the listener has settled on.",
+      "Un verificador de combinaciones y una cabina con cronómetro sobre una placa base. Atrás a la izquierda, el verificador: un gabinete con el intento actual en cuatro ruedas de dígitos, una lámpara sobre cada rueda que se enciende por cada dial que revisó la última comprobación, y una placa arriba con el nombre de la comparación en uso, SALIDA TEMPRANA o TIEMPO CONSTANTE; contadores en su frente muestran las ejecuciones y cuántas abrieron la cerradura. En el centro, un cronómetro sobre un pedestal mide cada comprobación, con quien escucha parado al lado con una tablilla; unos contadores muestran la última lectura, con un decimal, y cuántas lecturas se tomaron. Atrás a la derecha, un tablero de conteo tiene una barra por dígito, la lectura promedio de ese dígito hasta ahora, con el dígito arriba delante de su barra; la columna que se está midiendo está encendida, y unos contadores muestran el dial que se está aprendiendo y las lecturas tomadas de la columna que se mide. Adelante a la izquierda, un escritorio con pilas de papeletas de intentos muestra cuántos intentos haría falta en promedio adivinando a ciegas; adelante a la derecha, un riel tiene una tarjeta por cada dial que quien escucha ya fijó.",
     ),
     body: [plate(), cable(), checker(), tally(), stopwatch(), desk(), rail()],
   });

diff --git a/src/lessons/timing/live.ts b/src/lessons/timing/live.ts
@@ -22,11 +22,16 @@ export default function mount({ P, G, LENGTHS, DIALS, BASE, STEP }, root) {
   const bars = G.BAR_X.map((_, i) => q(`[data-bar="${i}"]`));
   const labels = G.BAR_X.map((_, i) => q(`[data-col="${i}"]`));
   const caps = { dials: q('[data-cap="dials"]'), length: q('[data-cap="length"]') };
+  const openCaps = { dials: q('[data-opencap="dials"]'), length: q('[data-opencap="length"]') };
+  const sampleCaps = { dials: q('[data-samplecap="dials"]'), length: q('[data-samplecap="length"]') };
+  const dialBox = q("[data-dialbox]");
+  const openLabel = root.$('wb-stat[key="opened"] span');
   const cards = G.CARD_X.map((_, i) => q(`[data-card="${i}"]`));
   const cardText = G.CARD_X.map((_, i) => q(`[data-card-text="${i}"]`));
   const RATE = 30;                                   // readings per second at 1×
 
   const cfg = { compare: "early", noise: 4, samples: 320, delay: 0, probe: "dials", input: "raw", speed: 16 };
+  // opened: runs that opened the lock (or, in the length probe, found the secret's length)
   let model, seed = 3, runs = 0, opened = 0, budget = 0, hold = 0, after = null, lastSay = 0;
   const shownH = [];
 
@@ -37,9 +42,13 @@ export default function mount({ P, G, LENGTHS, DIALS, BASE, STEP }, root) {
     budget = 0; hold = 0; after = null;
     const length = cfg.probe === "length";
     show(caps.dials, !length); show(caps.length, length);
+    show(openCaps.dials, !length); show(openCaps.length, length);
+    show(sampleCaps.dials, !length); show(sampleCaps.length, length);
+    show(dialBox, !length);
+    if (openLabel) openLabel.textContent = L(length ? T("Lengths found", "Longitudes halladas") : T("Opened", "Abiertas"));
     labels.forEach((el, i) => { const on = !length || i < LENGTHS.length; show(el, on); show(bars[i], on); setText(el, length ? (i < LENGTHS.length ? LENGTHS[i] : "") : i); });
     cards.forEach((c) => show(c, false));
-    setLit(modes.early, cfg.compare === "early"); setLit(modes.const, cfg.compare === "const");
+    show(modes.early, cfg.compare === "early"); show(modes.const, cfg.compare === "const");
     setLit(openLamp, false);
     root.controls.showFor(cfg.probe);
     shownH.length = 0;
@@ -118,8 +127,16 @@ export default function mount({ P, G, LENGTHS, DIALS, BASE, STEP }, root) {
     } else if (st.dial >= DIALS - 1) {
       say(T("dial " + DIALS + " leaves no timing trace · trying its digits by hand", "el dial " + DIALS + " no deja rastro de tiempo · probando sus dígitos a mano"));
     } else {
-      say(T("dial " + (st.dial + 1) + " · timing digit " + st.col + " · " + st.sample + " of " + cfg.samples + " readings", "dial " + (st.dial + 1) + " · midiendo el dígito " + st.col + " · " + st.sample + " de " + cfg.samples + " lecturas"));
+      const head = T("dial " + (st.dial + 1) + " · timing digit " + st.col + " · " + int(st.sample) + " of " + int(cfg.samples), "dial " + (st.dial + 1) + " · midiendo el dígito " + st.col + " · " + int(st.sample) + " de " + int(cfg.samples));
+      say(st.dial > 0 ? T(head.en + " · " + learned().en, head.es + " · " + learned().es) : T(head.en + " readings", head.es + " lecturas"));
     }
+  }
+  // what the rail shows so far, and whether it is right (the narration knows the secret; the listener doesn't)
+  function learned() {
+    const st = model.st, digits = st.known.join("");
+    const wrong = st.known.findIndex((d, i) => d !== model.secret[i]);
+    return wrong < 0 ? T("learned " + digits + ", right so far", "aprendió " + digits + ", bien hasta ahora")
+      : T("learned " + digits + ", dial " + (wrong + 1) + " wrong", "aprendió " + digits + ", el dial " + (wrong + 1) + " está mal");
   }
   function onEvent(ev) {
     const st = model.st;
@@ -151,7 +168,7 @@ export default function mount({ P, G, LENGTHS, DIALS, BASE, STEP }, root) {
       return true;
     }
     if (ev.type === "lengthPick") {
-      runs++; if (ev.right) opened++;
+      runs++; if (ev.right) opened++;          // shown as FOUND in the length probe
       say(ev.right ? T("longest average: length " + ev.pick + " · the secret's length, found", "promedio más largo: longitud " + ev.pick + " · la del secreto, encontrada")
         : T("bars level · picked length " + ev.pick + " · a blind guess", "barras parejas · eligió la longitud " + ev.pick + " · a ciegas"));
       hold = 2.6; after = { col: LENGTHS.indexOf(ev.pick), end: true };
@@ -208,10 +225,13 @@ export default function mount({ P, G, LENGTHS, DIALS, BASE, STEP }, root) {
   root.on("action", (name) => actions[name]?.());
 
   // ---------- "Watch it on the machine": an experiment's settings ----------
+  // warm: readings taken at once before the machine starts, so the first pick comes within seconds
   root.on("watch", (w) => {
     for (const key of ["compare", "noise", "samples", "delay", "probe", "input"]) set(key, w[key], true);
     set("speed", w.speed ?? 16, true);
     restart(false);
+    for (let i = 0; i < (w.warm || 0); i++) if (onEvent(model.next())) break;
+    paint(); showStats();
     wake();
   });
 
